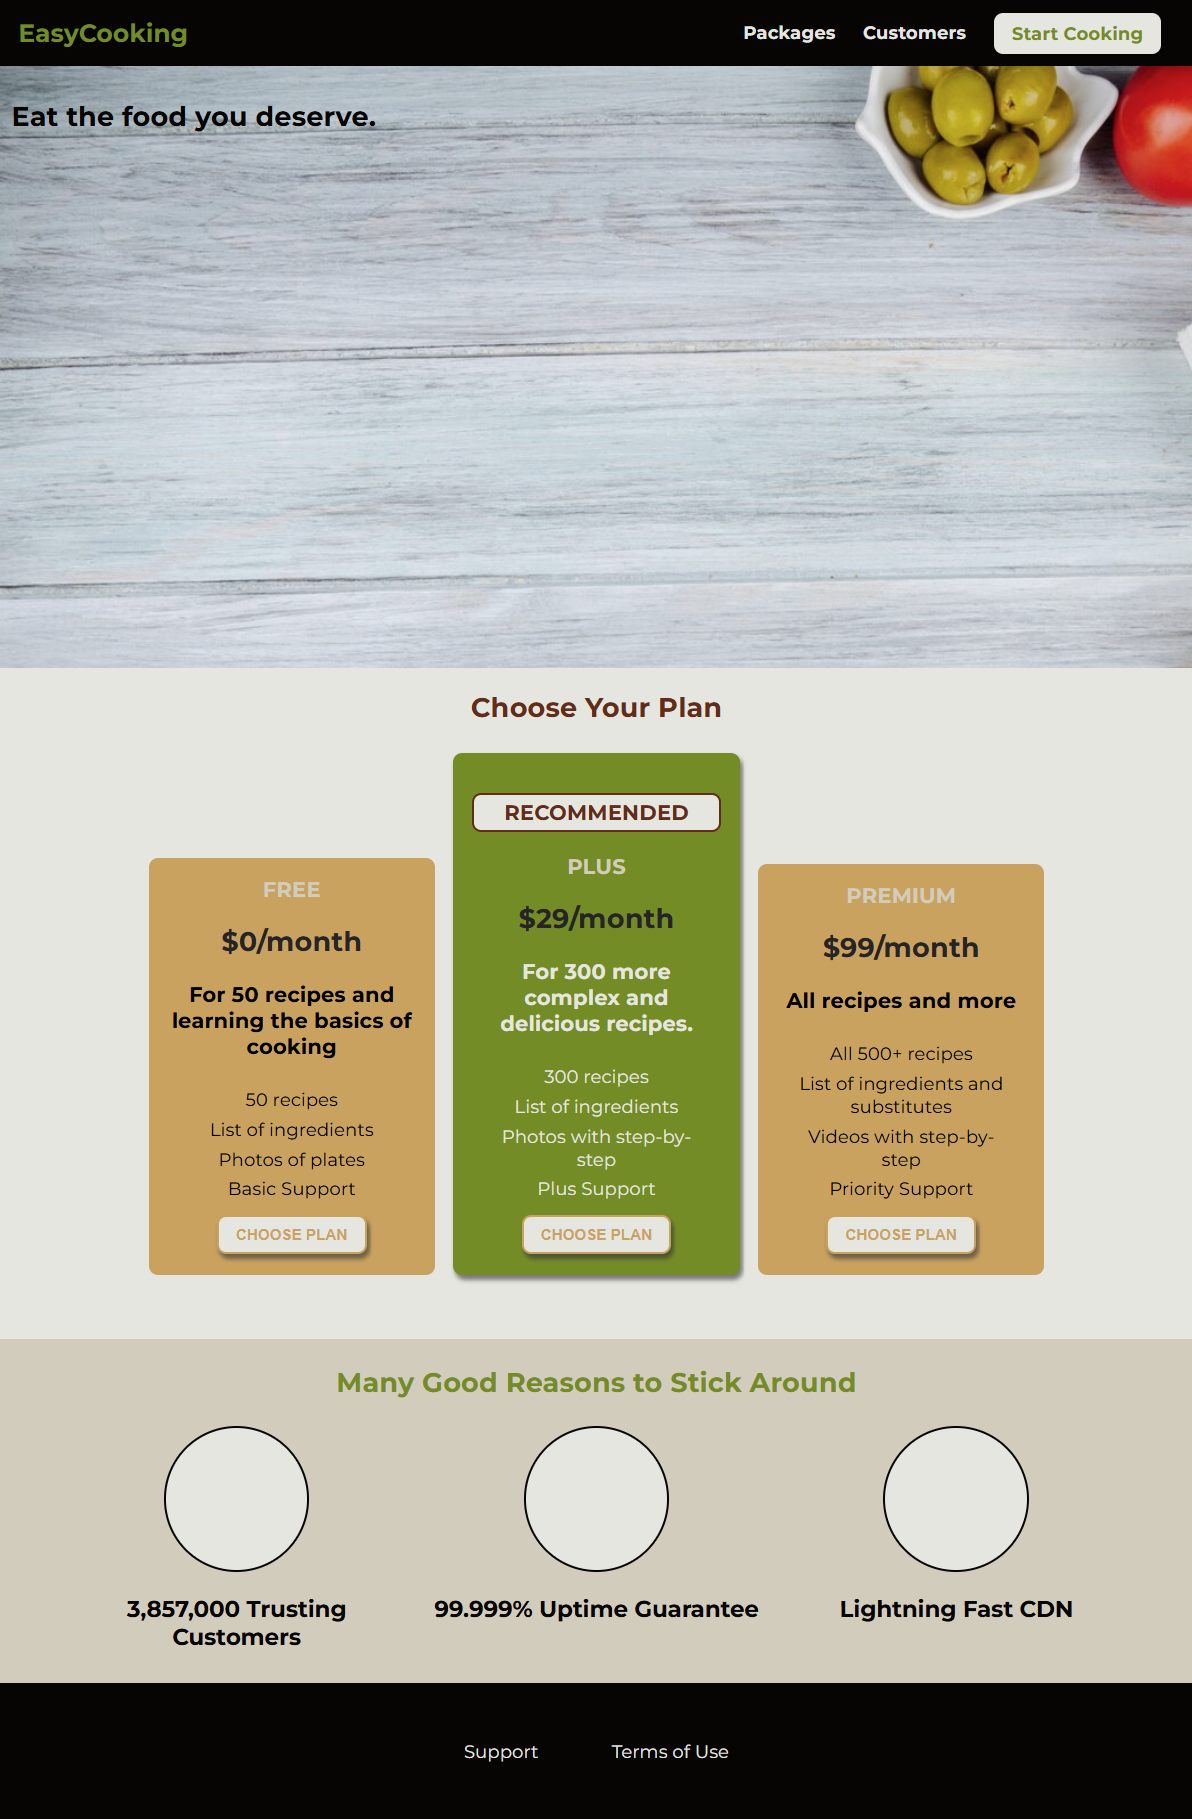
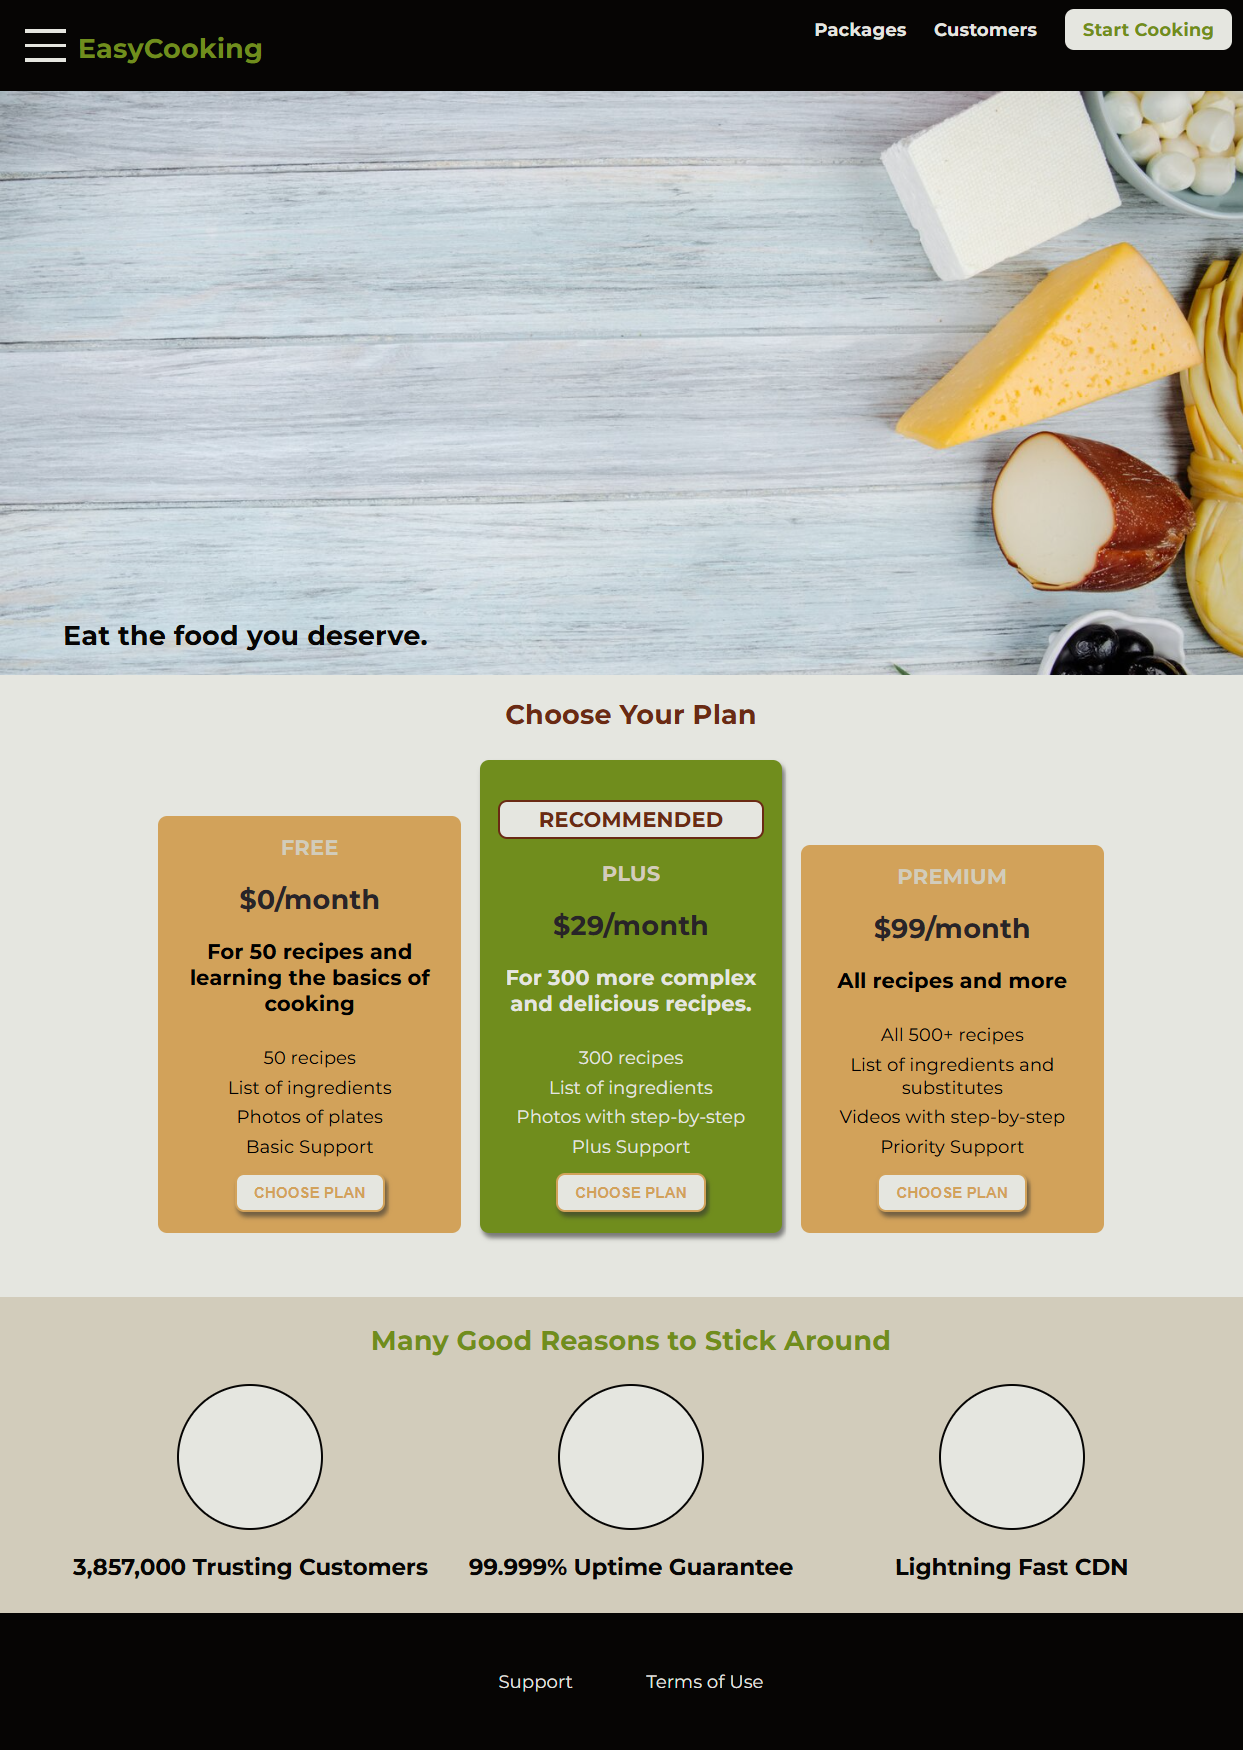
Include a mobile nav bar & Update README

diff --git a/common.css b/common.css
@@ -18,7 +18,7 @@
 }
 
 html {
-    margin-top: 58px;
+    margin-top: 4em;
 }
 
 body {
@@ -40,6 +40,8 @@ header {
 }
 
 .main-header {
+    display: flex;
+    justify-content: space-between;
     width: 100%;
     background: var(--dark-color);
     padding: 16px 16px;
@@ -54,13 +56,38 @@ header {
     color: var(--accent-color);
     text-decoration: none;
     font-weight: bold;
-    font-size: 22px;
+    font-size: 1.5em;
+    height: 1.5rem;
+    display: inline-block;
+    vertical-align: middle;
+}
+
+.toggle-button {
+    width: 3rem;
+    background:  transparent;
+    border: none;
+    cursor: pointer;
+    padding-top: 0;
+    padding-bottom: 0;
+    vertical-align: middle;
+}
+
+.toggle-button:focus {
+    outline: none;
+}
+
+.toggle-button__bar {
+    width: 100%;
+    height: 0.2rem;
+    background: var(--light-color);
+    display: block;
+    margin: 0.6rem 0;
 }
 
 .main-nav {
     display: inline-block;
     text-align: right;
-    width: calc(100% - 155px);
+    width: calc(100% - 220px);
     vertical-align: middle;
 }
 
@@ -75,7 +102,8 @@ header {
     margin: 0 10px;
 }
 
-.main-nav__item a {
+.main-nav__item a,
+.mobile-nav__item a {
     text-decoration: none;
     color: var(--light-color);
     font-weight: bold;
@@ -89,21 +117,52 @@ header {
 }
 
 /* CTA: Call To Action button */
-.main-nav__item--cta a {
+.main-nav__item--cta a,
+.mobile-nav__item--cta a {
     color: var(--accent-color);
     background-color: var(--light-color);
     padding: 8px 16px;
     border-radius: 8px;
 }
 
-.main-nav__item--cta a:hover {
+.main-nav__item--cta a:hover,
+.mobile-nav__item--cta a:hover {
     border: 0;
     background-color: var(--accent-color);
     color: var(--light-color);
 }
 
-.main-nav__item--cta a:active {
+.main-nav__item--cta a:active,
+.mobile-nav__item--cta a:active {
     box-shadow: inset 2px 4px 4px var(--shadow-color);
+}
+
+.mobile-nav {
+    display: none;
+    position: fixed;
+    z-index: 101;
+    top: 0;
+    left: 0;
+    background-color: var(--darkgrey-color);
+    width: 60%;
+    height: 100vh;
+}
+
+.mobile-nav__items {
+    width: 90%;
+    height: 100%;
+    list-style: none;
+    margin: 10% auto;
+    padding: 0;
+    text-align: center;
+}
+
+.mobile-nav__item {
+    margin: 1rem 0;
+}
+
+.mobile-nav__item a {
+    font-size: 1.5rem;
 }
 
 .button {

diff --git a/main.css b/main.css
@@ -1,12 +1,19 @@
 #product-overview {
     background-image: url("./images/easy_cooking.jpg");
+    background-size: cover;
+    background-repeat: no-repeat;
+    background-position: center; /* left top right botton */
     width: 100%;
     height: 528px;
-    padding: 10px;   
+    padding: 10px;
+    position: relative;
 }
 
 #product-overview h1 {
     color: var(--dark-color);
+    position: absolute;
+    bottom: 0;
+    left: 5%;
 }
 
 .plans {
@@ -68,3 +75,61 @@
     padding: 3px;
 }
 
+.backdrop {
+    position: fixed;
+    display: none;
+    top: 0;
+    left: 0;
+    z-index: 100;
+    width: 100vw;
+    height: 100vh;
+    background-color: var(--shadow-color);
+}
+
+.modal {
+    position: fixed;
+    display: none;
+    z-index: 200;
+    top: 20%;
+    left: 30%;
+    width: 40%;
+    background: var(--light-color);
+    padding: 1rem;
+    border: 1px, solid #ccc;
+    box-shadow: var(--shadow-color);
+}
+
+.modal-title {
+    text-align: center;
+    margin: 0 0 1rem 0;
+}
+
+.modal-actions {
+    text-align: center;
+}
+
+.modal-action {
+    border: 1px solid var(--accent-color);
+    background: var(--accent-color);
+    text-decoration: none;
+    color: var(--light-color);
+    padding: 0.5rem 1rem;
+    cursor: pointer;
+}
+
+.modal-action:hover,
+.modal-action:active {
+    background-color: #526600;
+    border-color: #526600;
+}
+
+.modal-action__negative {
+    background: var(--error-color);
+    border-color: var(--error-color);
+}
+
+.modal-action__negative:hover,
+.modal-action__negative:active {
+    background: var(--primary-color);
+    border-color: var(--primary-color);
+}

diff --git a/index.html b/index.html
@@ -13,8 +13,21 @@
 </head>
 
 <body>
+    <div class="backdrop"></div>
+    <div class="modal">
+        <h1 class="modal-title">Do you want to continue?</h1>
+        <div class="modal-actions">
+            <a href="start-hosting/index.html" class="modal-action">Yes!</a>
+            <button class="modal-action modal-action__negative" type="button">No!</button>
+        </div>
+    </div>
     <header class="main-header">
         <div>
+            <button class="toggle-button">
+                <span class="toggle-button__bar"></span>
+                <span class="toggle-button__bar"></span>
+                <span class="toggle-button__bar"></span>
+            </button>
             <a href="index.html" class="main-header__brand">
                 EasyCooking
             </a>
@@ -33,6 +46,19 @@
             </ul>
         </nav>
     </header>
+    <nav class="mobile-nav">
+        <ul class="mobile-nav__items">
+            <li class="mobile-nav__item">
+                <a href="packages/index.html">Packages</a>
+            </li>
+            <li class="mobile-nav__item">
+                <a href="customers/index.html">Customers</a>
+            </li>
+            <li class="mobile-nav__item mobile-nav__item--cta">
+                <a href="start-cooking/index.html">Start Cooking</a>
+            </li>
+        </ul>
+    </nav>
     <main>
         <section id="product-overview">
             <h1>Eat the food you deserve.</h1>
@@ -121,6 +147,7 @@
             </ul>
         </nav>
     </footer>
+    <script src="shared.js"></script>
 </body>
 
 </html>

diff --git a/shared.js b/shared.js
@@ -1,0 +1,32 @@
+var backdrop = document.querySelector(".backdrop");
+var modal = document.querySelector('.modal');
+
+var selectPlanButtons = document.querySelectorAll(".plan button");
+for (var i = 0; i < selectPlanButtons.length; i++) {
+    selectPlanButtons[i].addEventListener('click', function () {
+        backdrop.style.display = 'block';
+        modal.style.display = 'block';
+    });
+}
+
+var noButton = document.querySelector('.modal-action__negative');
+noButton.addEventListener('click', function() {
+    modal.style.display = 'none';
+    backdrop.style.display = 'none';
+});
+
+var mobileNav = document.querySelector('.mobile-nav');
+backdrop.addEventListener('click', function() {
+    mobileNav.style.display = 'none';
+    modal.style.display = 'none';
+    backdrop.style.display = 'none';
+});
+
+var toggleButton = document.querySelector('.toggle-button');
+toggleButton.addEventListener('click', openMobileNav)
+
+function openMobileNav() {
+    mobileNav.style.display = 'block';
+    backdrop.style.display = 'block';
+}
+

diff --git a/README.md b/README.md
@@ -7,11 +7,34 @@ The idea is to create a desing to a cooking teachig website, with plans to subsc
 
 ## How the index page looks so far...
 
-![This is how the page looks so far](/images/easy-cooking_design.png)
+<img src="images/easy-cooking_design.png" alt="This is how the page looks so far" width=600 />
 
 ## How Packages page looks so far...
 
-![This is how the packages page looks so far](/images/easy-cooking_design_packages.png)
+<img src="images/easy-cooking_design_packages.png" alt="This is how the packages page looks so far" width=600 />
+
+## What do we have so far?
+
+### Index page
+
+#### Hamburger menu
+In the index page we have a hamburguer menu that opens a mobile menu, hidden at first. Later this will be shown only at smaller screens.
+
+<img src="images/mobile-nav.png" alt="Mobile Nav" width=600 />
+
+---
+
+#### Modal
+
+Every time the CHOOSE PLAN button is clicked, we show a modal with a confirmation button to redirect to another page (yet to be created).
+
+<img src="images/confirming-modal.png" alt="Confirming Modal" width=600 />
+
+#### Reactive buttons and styling
+
+The buttons change color when hover and change the shadow to create an impression that they are being pushed down.
+
+<img src="images/choose-plan-button_active.png" alt="Choose Plan button"/>
 
 ## What's next?
 
